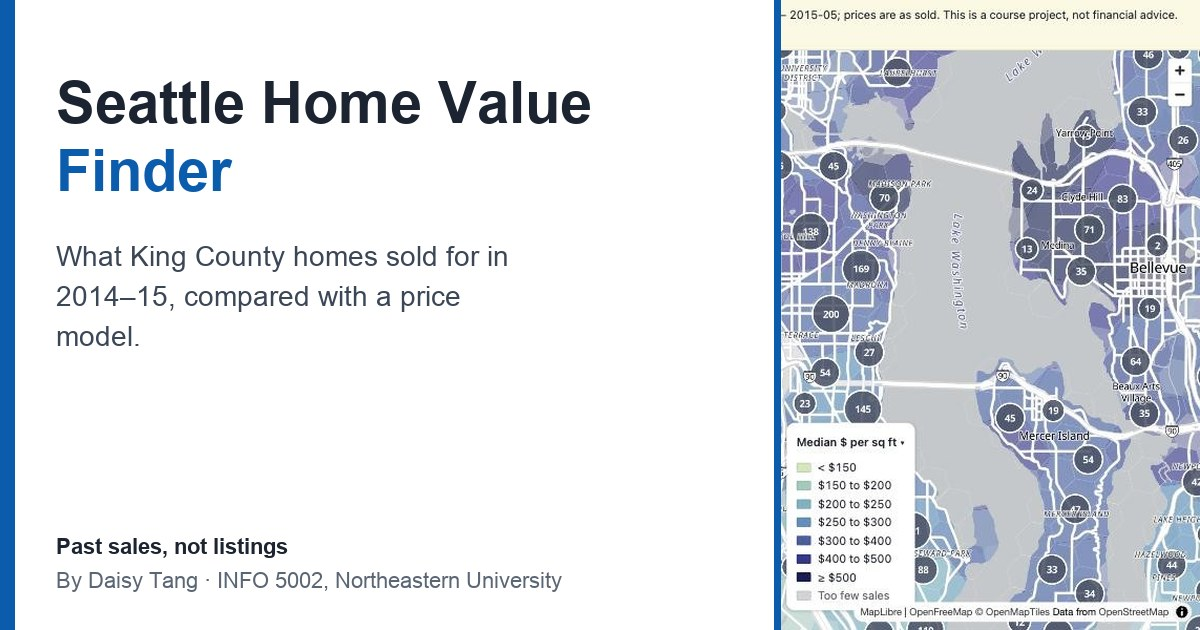
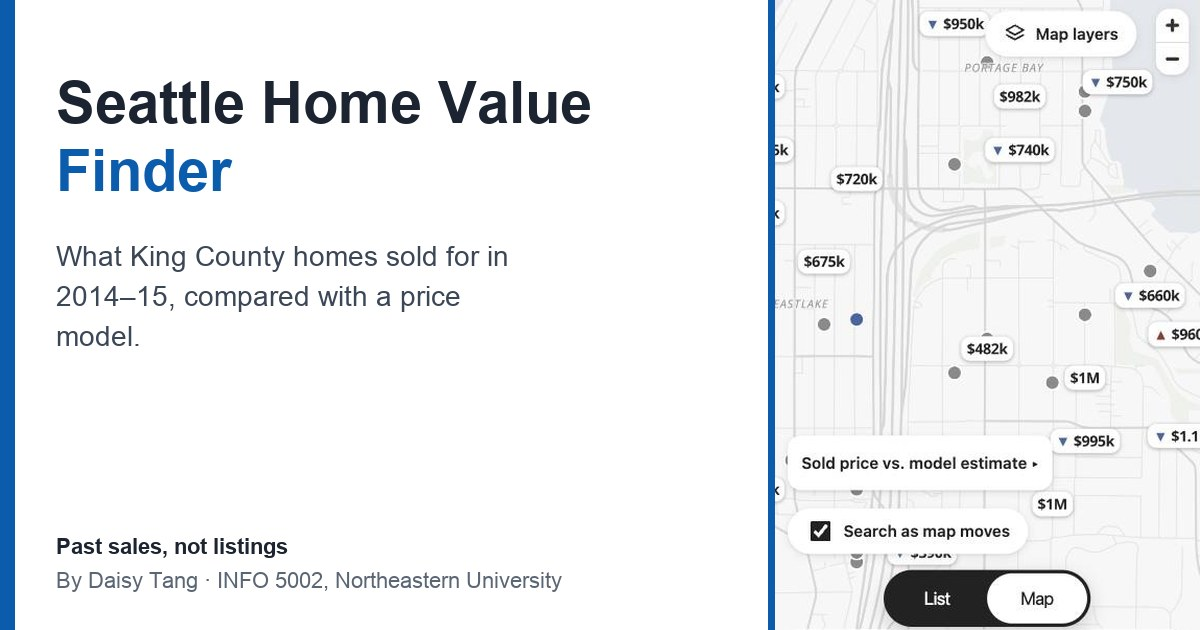
Finish the Airbnb-style redesign: audits, fixes, docs, screenshots (v3, phase 5)
Colour-meaning audit script (blue and red only on data), marker tones added to the colour-vision
check, chart series moved to neutral greys. Fixes found by axe: the accessibility dialog now lives
in the app shell instead of the menu that unmounts it, the chips row is a landmark, and the phone
search button's name includes its visible text. Header and map overlays compact at tablet widths.
README gains the design rules table; screenshots, share image and measurements updated.

Changed region(s): [[0.6167, 0.0, 1.0, 1.0]]

diff --git a/src/components/SiteTools.tsx b/src/components/SiteTools.tsx
@@ -40,34 +40,48 @@ export function LanguageSelect() {
   )
 }
 
-/** Accessibility settings: a button for the sidebar plus the modal dialog it opens. */
-export function AccessibilityTool({ onOpen }: { onOpen?: () => void }) {
+/** The dialog is mounted once (in the app shell) and opened from the menu, so closing the menu cannot unmount it. */
+const opener = { fn: null as null | (() => void) }
+export const openAccessibility = () => opener.fn?.()
+
+export function AccessibilityDialog() {
   const t = useT()
   const prefs = usePrefs()
   const dialog = useRef<HTMLDialogElement>(null)
+  useEffect(() => {
+    opener.fn = () => dialog.current?.showModal()
+    return () => {
+      opener.fn = null
+    }
+  }, [])
   return (
-    <>
-      <button type="button" className="sb-item" title={t('a11y.button')} aria-haspopup="dialog" onClick={() => { onOpen?.(); dialog.current?.showModal() }}>
-        <Icon name="access" />
-        <span className="sb-label">{t('a11y.button')}</span>
-      </button>
-      <dialog ref={dialog} className="a11y-dialog" aria-labelledby="a11y-title" onClick={(e) => { if (e.target === dialog.current) dialog.current?.close() }}>
-        <h2 id="a11y-title">{t('a11y.title')}</h2>
-        <Choice label={t('a11y.text')} name="text" value={prefs.text} options={[['base', t('a11y.text.base')], ['lg', t('a11y.text.lg')], ['xl', t('a11y.text.xl')]]} />
-        <Choice label={t('a11y.contrast')} name="contrast" value={prefs.contrast} options={[['base', t('a11y.contrast.base')], ['high', t('a11y.contrast.high')]]} />
-        <Choice label={t('a11y.motion')} name="motion" value={prefs.motion} options={[['system', t('a11y.motion.system')], ['reduce', t('a11y.motion.reduce')]]} />
-        <fieldset className="a11y-field">
-          <legend>{t('a11y.links')}</legend>
-          <label className="check">
-            <input type="checkbox" checked={prefs.underline} onChange={(e) => setPrefs({ underline: e.target.checked })} /> {t('a11y.links.underline')}
-          </label>
-        </fieldset>
-        <p className="hint">{t('a11y.note')}</p>
-        <div className="dialog-actions">
-          <button type="button" className="secondary" onClick={resetPrefs}>{t('a11y.reset')}</button>
-          <button type="button" className="primary" onClick={() => dialog.current?.close()}>{t('a11y.close')}</button>
-        </div>
-      </dialog>
-    </>
+    <dialog ref={dialog} className="a11y-dialog" aria-labelledby="a11y-title" onClick={(e) => { if (e.target === dialog.current) dialog.current?.close() }}>
+      <h2 id="a11y-title">{t('a11y.title')}</h2>
+      <Choice label={t('a11y.text')} name="text" value={prefs.text} options={[['base', t('a11y.text.base')], ['lg', t('a11y.text.lg')], ['xl', t('a11y.text.xl')]]} />
+      <Choice label={t('a11y.contrast')} name="contrast" value={prefs.contrast} options={[['base', t('a11y.contrast.base')], ['high', t('a11y.contrast.high')]]} />
+      <Choice label={t('a11y.motion')} name="motion" value={prefs.motion} options={[['system', t('a11y.motion.system')], ['reduce', t('a11y.motion.reduce')]]} />
+      <fieldset className="a11y-field">
+        <legend>{t('a11y.links')}</legend>
+        <label className="check">
+          <input type="checkbox" checked={prefs.underline} onChange={(e) => setPrefs({ underline: e.target.checked })} /> {t('a11y.links.underline')}
+        </label>
+      </fieldset>
+      <p className="hint">{t('a11y.note')}</p>
+      <div className="dialog-actions">
+        <button type="button" className="secondary" onClick={resetPrefs}>{t('a11y.reset')}</button>
+        <button type="button" className="primary" onClick={() => dialog.current?.close()}>{t('a11y.close')}</button>
+      </div>
+    </dialog>
+  )
+}
+
+/** Menu row that opens the accessibility dialog. */
+export function AccessibilityTool({ onOpen }: { onOpen?: () => void }) {
+  const t = useT()
+  return (
+    <button type="button" className="sb-item" title={t('a11y.button')} aria-haspopup="dialog" onClick={() => { onOpen?.(); openAccessibility() }}>
+      <Icon name="access" />
+      <span className="sb-label">{t('a11y.button')}</span>
+    </button>
   )
 }

diff --git a/src/styles/layout.css b/src/styles/layout.css
@@ -191,7 +191,6 @@ html[data-text='lg'] { font-size: 112.5%; }
 html[data-text='xl'] { font-size: 125%; }
 html[data-underline='on'] a { text-decoration: underline; text-underline-offset: 3px; }
 html[data-motion='reduce'] *, html[data-motion='reduce'] *::before, html[data-motion='reduce'] *::after { animation-duration: 0.01ms !important; transition-duration: 0.01ms !important; scroll-behavior: auto !important; }
-html[data-contrast='high'] { --ink: #000; --ink-2: #2b2b2b; --hairline: #4d4d4d; --surface-2: #fff; --data-below-ink: #00346b; --data-above-ink: #7a0016; --data-near-ink: #2b2b2b; }
 html[data-contrast='high'] .chip, html[data-contrast='high'] .seg button, html[data-contrast='high'] .card, html[data-contrast='high'] .pill, html[data-contrast='high'] .pill-one,
 html[data-contrast='high'] .menu-btn, html[data-contrast='high'] .layers-btn, html[data-contrast='high'] .mapfollow, html[data-contrast='high'] .sb-search label,
 html[data-contrast='high'] .sb-field select, html[data-contrast='high'] .pair input, html[data-contrast='high'] .num-input, html[data-contrast='high'] .field-input input { border: 2px solid #000; }
@@ -199,10 +198,16 @@ html[data-contrast='high'] .disclaimer { background: #fff; border-bottom: 2px so
 html[data-contrast='high'] .badge { background: #fff; border: 2px solid #000; color: #000; }
 
 /* ===== phones ===== */
-@media (min-width: 768px) { .only-phone { display: none !important; } }
-@media (max-width: 767px) {
+/* header compaction: logo only below 1100px; the two tool links move into the menu below 900px */
+@media (max-width: 1100px) {
+  .hdr-name { display: none; }
+  .mapfollow { left: var(--s-3); top: 64px; transform: none; }
+}
+@media (max-width: 899px) {
   .only-desktop { display: none !important; }
   .only-phone { display: flex !important; }
+}
+@media (max-width: 767px) {
   .hdr { grid-template-columns: auto minmax(0, 1fr) auto; gap: var(--s-2); padding: var(--s-2) var(--s-3); }
   .hdr-name { display: none; }
   .pop { width: min(92vw, 420px); left: 0; transform: none; }
@@ -217,7 +222,7 @@ html[data-contrast='high'] .badge { background: #fff; border: 2px solid #000; co
   .results-head { grid-template-columns: minmax(0, 1fr); padding: var(--s-4) var(--s-4) var(--s-2); }
   .sortbox { grid-column: 1; grid-row: auto; justify-self: start; margin-top: var(--s-2); }
   .list-scroll { padding: 0 var(--s-4) var(--s-4); }
-  .mapfollow { top: auto; bottom: 120px; left: var(--s-3); transform: none; }
+  .mapfollow { top: auto; bottom: 120px; }
   .layers { left: auto; right: 56px; }
   .layers-pop { position: absolute; right: 0; }
   .legend-slot { bottom: 176px; }

diff --git a/src/i18n/zh.ts b/src/i18n/zh.ts
@@ -14,21 +14,11 @@ export const zh: Record<MsgKey, string> = {
   'lang.label': '语言',
 
   // sidebar
-  'nav.main': '主导航',
-  'nav.g.explore': '探索',
-  'nav.g.tools': '工具',
-  'nav.g.learn': '了解',
-  'nav.g.settings': '设置',
-  'nav.map': '地图和房源',
   'nav.zips': '查找邮编',
   'nav.zipPlaceholder': '邮编，例如 98103',
   'nav.zipNone': '该邮编没有成交记录',
   'nav.compare': '对比',
   'nav.method': '关于和方法',
-  'nav.collapse': '收起侧边栏',
-  'nav.expand': '展开侧边栏',
-  'nav.open': '打开菜单',
-  'nav.close': '关闭菜单',
   'compareChooser.hint': '选择两个邮编，并排比较价格。要比较两套具体的房子，请打开一套房，在“相似成交”下点“与这套房对比”。',
   'compareChooser.a': '第一个邮编',
   'compareChooser.b': '第二个邮编',
@@ -85,16 +75,10 @@ export const zh: Record<MsgKey, string> = {
   'results.subAll': '地图范围内的每一笔成交，以及它与模型估价的比较。',
 
   // first-screen filters
-  'show.label': '显示',
-  'show.all': '全部成交',
   'show.under': '可能被低估',
-  'show.explainSummary': '“可能被低估”是什么意思？',
-  'show.explain': '模型会根据面积、评级和位置，估计每套房该卖多少钱。成交价比估价低至少 10% 的房子，就显示为“可能被低估”。模型看不到房屋状况和装修，所以要自己再核实。',
   'budget.label': '预算上限',
   'budget.value': '不超过 {price}',
   'budget.any': '不限',
-  'more.label': '更多筛选',
-  'more.countN': '更多筛选（{n}）',
   'more.minPrice': '最低价格',
   'more.basis': '价格显示为',
   'map.layers': '地图图层',
@@ -102,7 +86,6 @@ export const zh: Record<MsgKey, string> = {
   // filters
   'filters.label': '筛选',
   'chip.waterfront': '临水',
-  'chip.clear': '清除全部（{n}）',
   'any': '不限',
   'any.cap': '不限',
   'field.noMin': '无下限',
@@ -138,8 +121,6 @@ export const zh: Record<MsgKey, string> = {
 
   // list and cards
   'list.zoom': '请放大地图或选择邮编',
-  'list.inView': '视野内 {n} 套',
-  'list.loaded': '已加载 {n} 套',
   'list.follow': '随地图移动刷新',
   'list.empty': '没有符合条件的房子。试试缩小地图或清除一个筛选条件。',
   'list.zipRow': '{zip} · 中位价 {price} · ${ppsf}/平方英尺 · {n} 笔成交',

diff --git a/src/i18n/en.ts b/src/i18n/en.ts
@@ -12,21 +12,11 @@ export const en = {
   'lang.label': 'Language',
 
   // sidebar
-  'nav.main': 'Main navigation',
-  'nav.g.explore': 'Explore',
-  'nav.g.tools': 'Tools',
-  'nav.g.learn': 'Learn',
-  'nav.g.settings': 'Settings',
-  'nav.map': 'Map & homes',
   'nav.zips': 'Find a ZIP code',
   'nav.zipPlaceholder': 'ZIP code, e.g. 98103',
   'nav.zipNone': 'No sales in that ZIP code',
   'nav.compare': 'Compare',
   'nav.method': 'About & method',
-  'nav.collapse': 'Collapse sidebar',
-  'nav.expand': 'Expand sidebar',
-  'nav.open': 'Open menu',
-  'nav.close': 'Close menu',
   'compareChooser.hint': 'Pick two ZIP codes to compare prices side by side. To compare two specific homes, open a home and use “Compare with this home” under Similar sales.',
   'compareChooser.a': 'First ZIP code',
   'compareChooser.b': 'Second ZIP code',
@@ -83,16 +73,10 @@ export const en = {
   'results.subAll': 'Every sale in the map area, and how it compares with the model’s estimate.',
 
   // first-screen filters
-  'show.label': 'Show',
-  'show.all': 'All sales',
   'show.under': 'Possibly undervalued',
-  'show.explainSummary': 'What does “possibly undervalued” mean?',
-  'show.explain': 'A model estimates what each home should have sold for, based on its size, grade and location. A home that sold at least 10% below that estimate is shown as “possibly undervalued”. The model cannot see condition or finishes, so check before trusting it.',
   'budget.label': 'Max budget',
   'budget.value': 'Up to {price}',
   'budget.any': 'No limit',
-  'more.label': 'More filters',
-  'more.countN': 'More filters ({n})',
   'more.minPrice': 'Minimum price',
   'more.basis': 'Show prices as',
   'map.layers': 'Map layers',
@@ -100,7 +84,6 @@ export const en = {
   // filters
   'filters.label': 'Filters',
   'chip.waterfront': 'Waterfront',
-  'chip.clear': 'Clear all ({n})',
   'any': 'any',
   'any.cap': 'Any',
   'field.noMin': 'No min',
@@ -136,8 +119,6 @@ export const en = {
 
   // list and cards
   'list.zoom': 'Zoom in or pick a ZIP code',
-  'list.inView': '{n} homes in view',
-  'list.loaded': '{n} homes loaded',
   'list.follow': 'Search as map moves',
   'list.empty': 'No homes match. Try zooming out or clearing a filter.',
   'list.zipRow': '{zip} · {price} median · ${ppsf}/sq ft · {n} sales',

diff --git a/src/lib/query.test.ts b/src/lib/query.test.ts
@@ -1,7 +1,7 @@
 import { describe, expect, it } from 'vitest'
 import type { Home } from '../data/types'
 import { DEFAULTS, type Filters } from './filters'
-import { histogram, inBbox, filterHomes, sortHomes } from './query'
+import { devRank, histogram, inBbox, filterHomes, sortHomes } from './query'
 import { money, priceShort, signedPct } from './format'
 import { viewBbox } from './geo'
 
@@ -57,5 +57,13 @@ describe('geo and format helpers', () => {
   })
   it('bins prices with an overflow bin', () => {
     expect(histogram([10, 60, 70, 5000], 50, 150)).toEqual([1, 2, 1])
+  })
+})
+
+describe('devRank', () => {
+  const h = (dev: number) => ({ dev }) as Home
+  it('ranks the most below-estimate sale first and unusual gaps last', () => {
+    const order = [h(0.1), h(-0.3), h(-0.6), h(-0.12)].sort((a, b) => devRank(a) - devRank(b)).map((x) => x.dev)
+    expect(order).toEqual([-0.3, -0.12, 0.1, -0.6])
   })
 })

diff --git a/src/i18n/i18n.test.ts b/src/i18n/i18n.test.ts
@@ -25,8 +25,8 @@ describe('catalogues', () => {
 describe('helpers', () => {
   it('fills placeholders and leaves unknown ones visible', () => {
     expect(format('{a} and {b}', { a: 1 })).toBe('1 and {b}')
-    expect(translate('zh', 'list.inView', { n: 12 })).toBe('视野内 12 套')
-    expect(translate('en', 'list.inView', { n: 12 })).toBe('12 homes in view')
+    expect(translate('zh', 'results.all', { n: 12 })).toBe('12 套成交房源')
+    expect(translate('en', 'results.all', { n: 12 })).toBe('12 homes sold')
   })
   it('detects the language: stored choice first, then the browser', () => {
     expect(detectLang('zh', 'en-US')).toBe('zh')

diff --git a/src/layout/SearchPill.tsx b/src/layout/SearchPill.tsx
@@ -45,7 +45,7 @@ export function SearchPill() {
   if (phone) {
     return (
       <div className="pillwrap" ref={box}>
-        <button type="button" className="pill pill-one" aria-expanded={open === 'all'} aria-controls="pill-panel" aria-label={t('search.aria')} onClick={() => setOpen(open ? null : 'all')}>
+        <button type="button" className="pill pill-one" aria-expanded={open === 'all'} aria-controls="pill-panel" aria-label={`${t('search.aria')}: ${budget} · ${beds}`} onClick={() => setOpen(open ? null : 'all')}>
           <Icon name="search" />
           <span className="pill-text">{budget} · {beds}</span>
         </button>

diff --git a/src/routes/Compare.tsx b/src/routes/Compare.tsx
@@ -44,7 +44,7 @@ function ZipCompare({ a, b, index, t }: { a: string; b: string; index: IndexData
       </table>
       {ha.data && hb.data && (
         <Suspense fallback={<p>{t('charts.loading')}</p>}>
-          <ZipCharts series={[{ name: t('zip.series', { zip: a }), color: '#0b5cad', homes: ha.data }, { name: t('zip.series', { zip: b }), color: '#b45309', homes: hb.data }]} />
+          <ZipCharts series={[{ name: t('zip.series', { zip: a }), color: '#222222', homes: ha.data }, { name: t('zip.series', { zip: b }), color: '#a8a8a8', homes: hb.data }]} />
         </Suspense>
       )}
     </>

diff --git a/src/map/MapView.tsx b/src/map/MapView.tsx
@@ -56,7 +56,7 @@ function readView(map: MlMap): ViewState {
 /** Show a popup whose content is built with textContent only (no HTML injection from data). */
 function popupNode(title: string, lines: string[]): HTMLElement {
   const el = document.createElement('div')
-  el.style.cssText = 'font: 14px/1.4 system-ui, sans-serif; color: #1b2430;'
+  el.style.cssText = 'font: 14px/1.4 system-ui, sans-serif; color: #222222;'
   const h = document.createElement('strong')
   h.textContent = title
   el.append(h)

diff --git a/src/layout/AppShell.tsx b/src/layout/AppShell.tsx
@@ -1,5 +1,5 @@
 import { Outlet } from 'react-router'
-import { LangSync } from '../components/SiteTools'
+import { AccessibilityDialog, LangSync } from '../components/SiteTools'
 import { useT } from '../i18n'
 import { Header } from './Header'
 
@@ -9,6 +9,7 @@ export function AppShell() {
   return (
     <div className="app">
       <LangSync />
+      <AccessibilityDialog />
       <a className="skip-link" href="#main-content">{t('skip')}</a>
       <Header />
       <div className="content">

diff --git a/src/routes/ZipDetail.tsx b/src/routes/ZipDetail.tsx
@@ -51,7 +51,7 @@ export function ZipDetail() {
           </p>
           {homes.data && (
             <Suspense fallback={<p>{t('charts.loading')}</p>}>
-              <ZipCharts series={[{ name: t('zip.series', { zip: zip ?? '' }), color: '#0b5cad', homes: homes.data }]} />
+              <ZipCharts series={[{ name: t('zip.series', { zip: zip ?? '' }), color: '#222222', homes: homes.data }]} />
             </Suspense>
           )}
         </>

diff --git a/src/styles/tokens.css b/src/styles/tokens.css
@@ -71,3 +71,14 @@
   --r-sm: var(--r-8);
   --r-md: var(--r-12);
 }
+
+/* high-contrast preference (src/a11y/prefs.ts): darker neutrals and data text colours */
+html[data-contrast='high'] {
+  --ink: #000000;
+  --ink-2: #2b2b2b;
+  --hairline: #4d4d4d;
+  --surface-2: #ffffff;
+  --data-below-ink: #00346b;
+  --data-above-ink: #7a0016;
+  --data-near-ink: #2b2b2b;
+}
